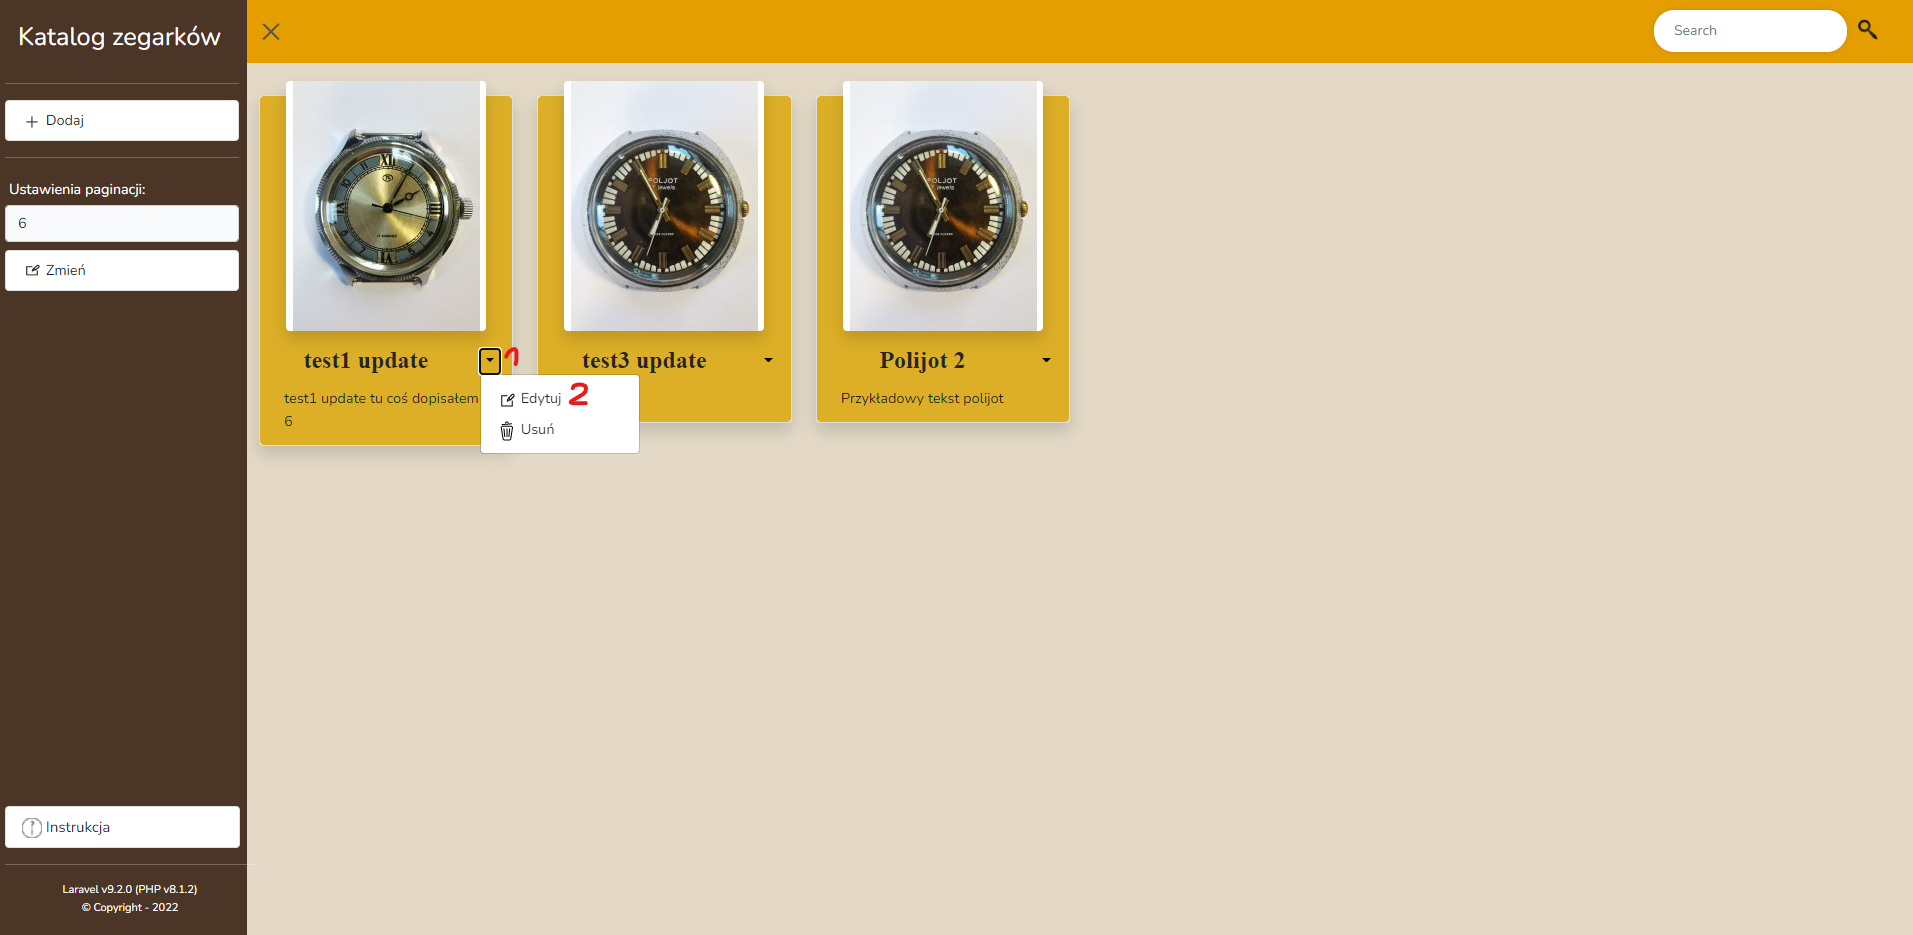
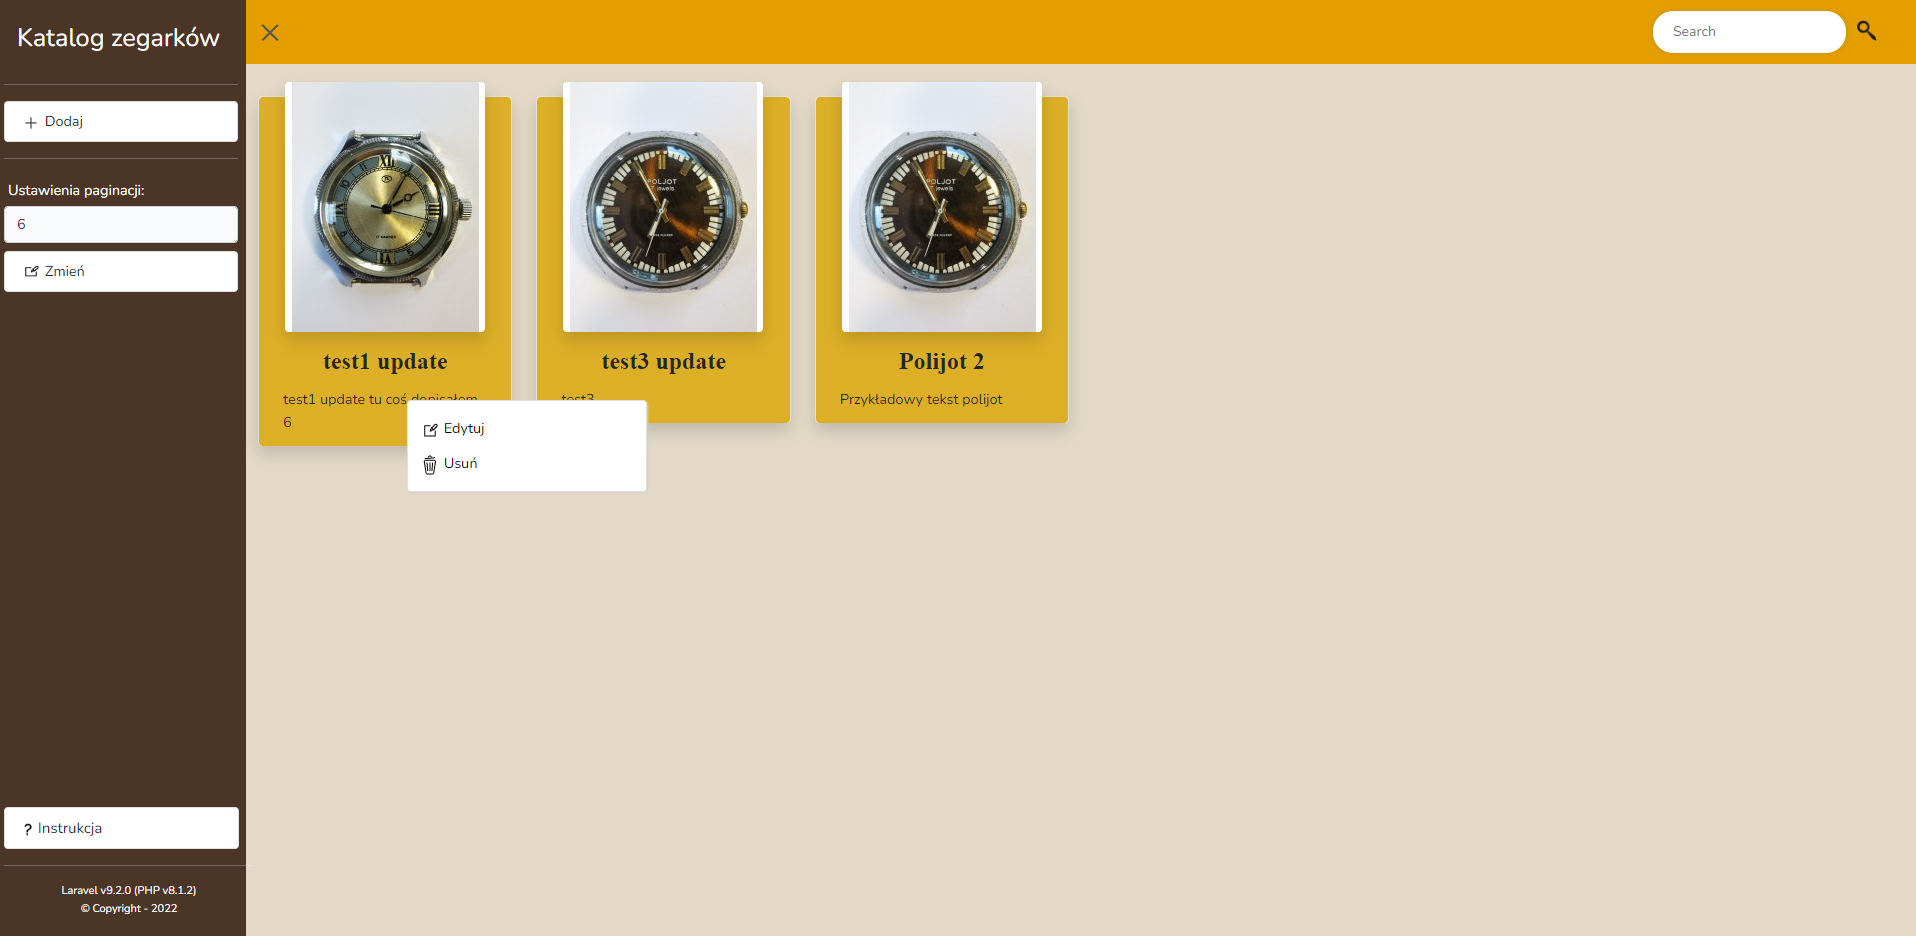
dodanie informacji o contextMenu w instrukcji, poprawa wyyciagania modelID w productContextMenu.js

diff --git a/public/js/productContextMenu.js b/public/js/productContextMenu.js
@@ -213,7 +213,7 @@
      * @param {HTMLElement} link The link that was clicked
      */
     function menuItemListener( link ) {
-      let modelID = location.href.substring(location.href.indexOf("/", 15));
+      let modelID = location.href.substring(location.href.indexOf("/", 8));
       modelID = modelID.substring(1, modelID.indexOf("/", 1));
       
       location.href = "/" + modelID + "/" + link.getAttribute("data-action") + "/" + taskItemInContext.getAttribute("data-id");

diff --git a/resources/views/system/help.blade.php b/resources/views/system/help.blade.php
@@ -69,7 +69,7 @@
                     a aplikacja przekieruje użytkownika na stronę startową.
                 </div>
                 <div class="mt-1">
-                    Aby zaktualizować model należy na wybranej karcie rozwinąć listę i wybrać opcję <i>Edytuj</i>
+                    Aby zaktualizować model należy na wybranej karcie nacisnąć PPM(Prawym Przyciskiem Myszy) i wybrać opcję <i>Edytuj</i>
                 </div>
                 <img src="{{ asset('help/model-edit-button.png') }}" alt="model-edit-button" width=1300>
                 <div>
@@ -86,12 +86,10 @@
                     W przypadku nie nadpisywania modelu z lewej strony znajduje się przycisk do powrotu na listę modeli.
                 </div>
                 <div>
-                    W liście rozwijanej znajduje się przycisk usunięcia modelu. 
-                    Po kliknięciu w niego wyświetli się alert z potwierdzeniem decyzji. 
-                    W przypadku zaakceptowania model zostanie usunięty nieodwracalnie.
+                    W ContextMenu znajduje się również przycisk usunięcia modelu. 
+                    Zostanie on usunięty nieodwracalnie.
                     Jeżeli pod modelem znajdują się zdjęcia <i>System</i> zwróci komunikat o wcześniejszym usunięciu produktów z bazy.
                 </div>
-                <img src="{{ asset('help/model-delete.png') }}" alt="model-delete" width=1300>
             </div>
 
             <hr/>
@@ -152,10 +150,9 @@
                 </div>
                 <img src="{{ asset('help/product-edit-deleteImage.png') }}" alt="product-edit-deleteImage" width=1300>
                 <div>
-                    W liście rozwijanej znajduje się przycisk usunięcia produktu. 
-                    Możemy również usunąć produkt z karty produktowej. Po kliknięciu wyświetli się alert 
-                    z potwierdzeniem decyzji. W przypadku zaakceptowania produkt zostanie usunięty nieodwracalnie
-                    wraz z wszystkimi zdjęciami.
+                    W ContextMenu znajduje się przycisk usunięcia produktu. 
+                    Możemy również usunąć produkt z karty produktowej. P
+                    rodukt zostanie usunięty nieodwracalnie wraz z wszystkimi zdjęciami.
                 </div>
             </div>
 
